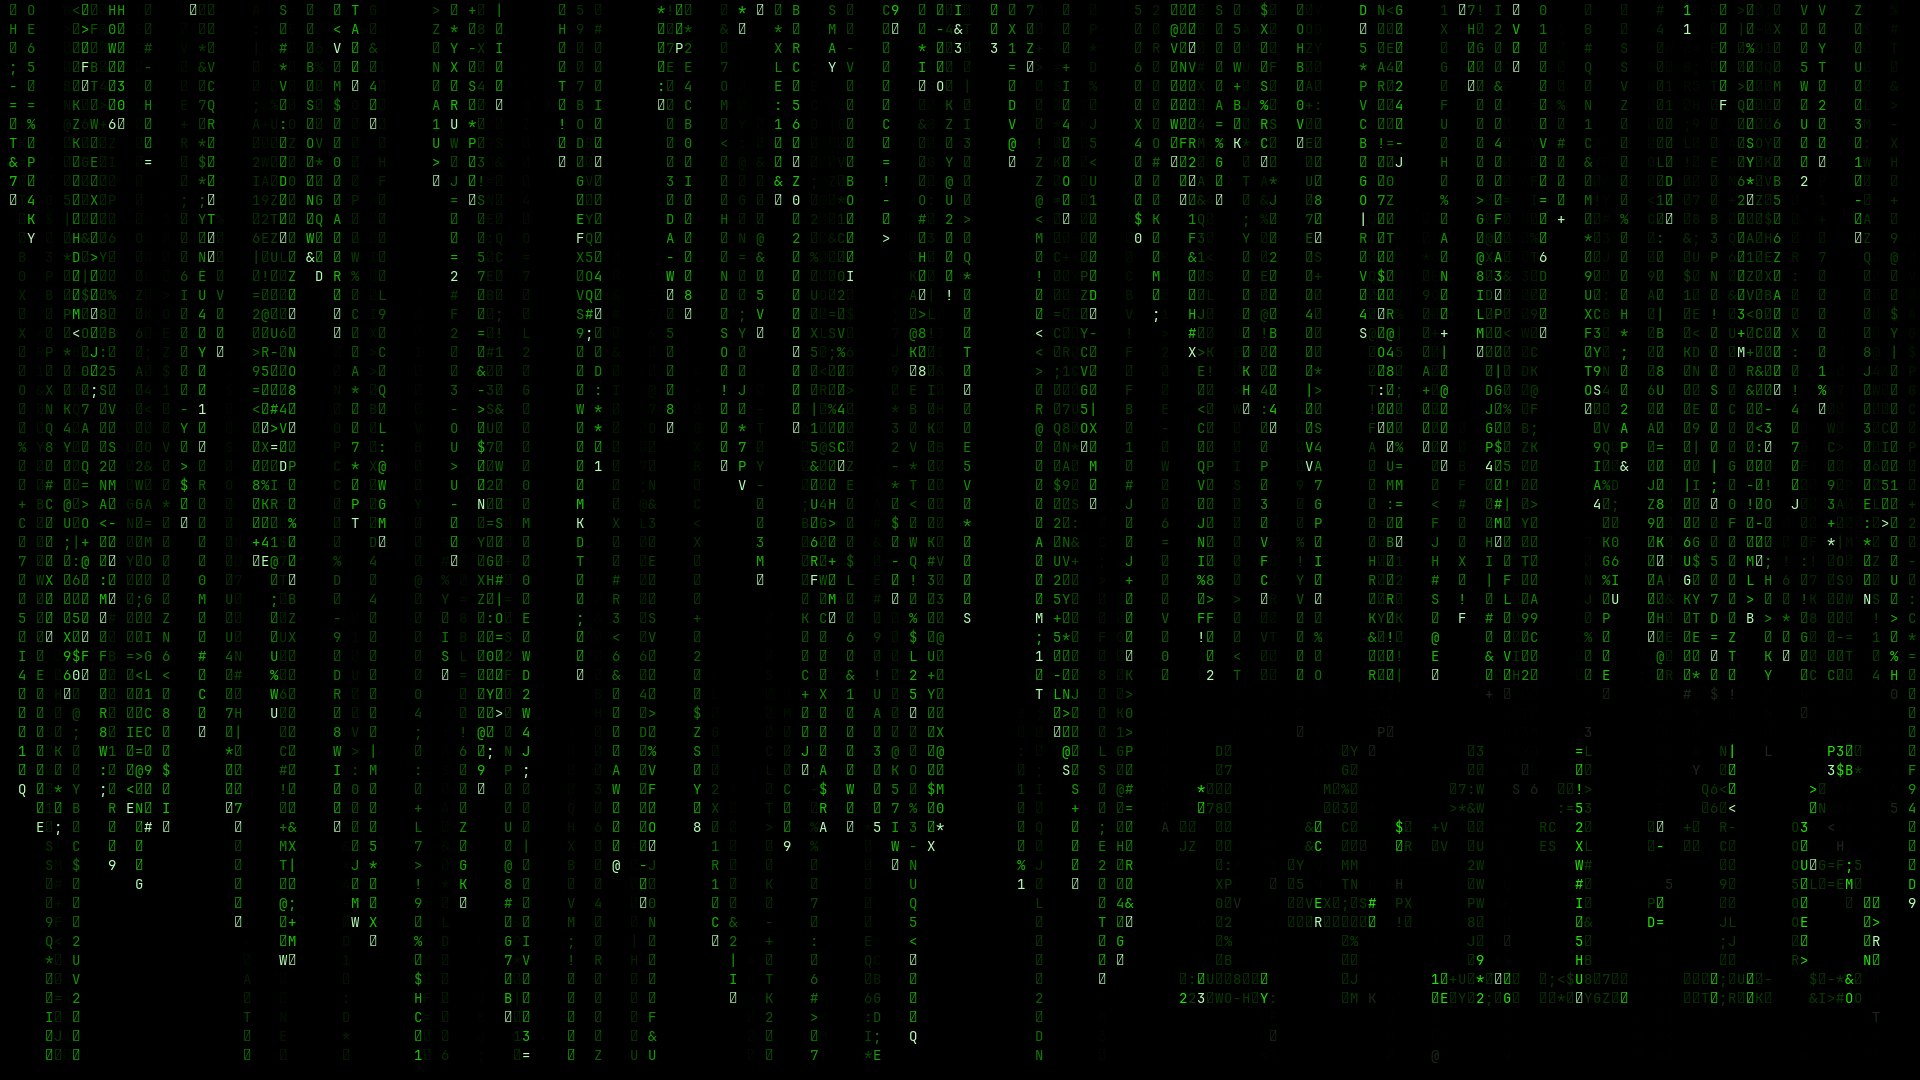
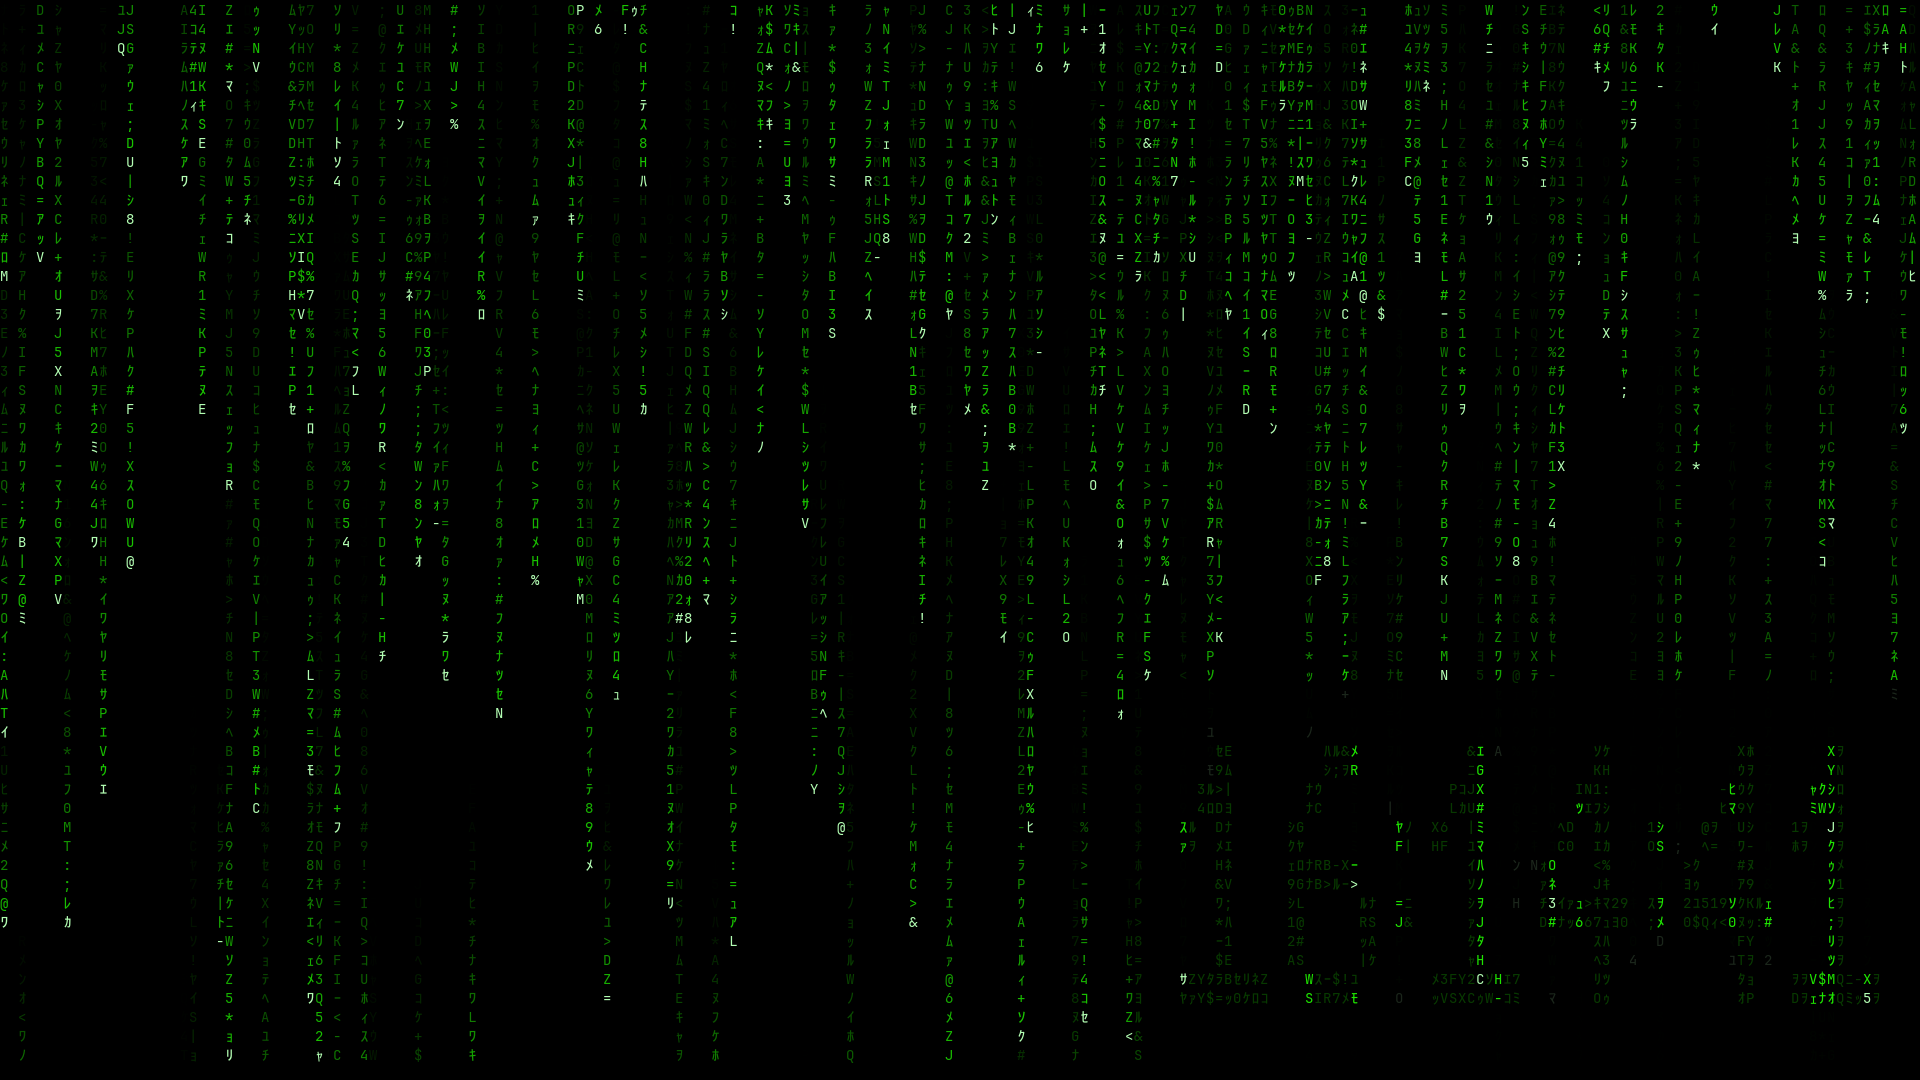
Fix katakana rendering with fallback font
JetBrains Mono lacks half-width katakana glyphs (U+FF66–U+FF9D), so they
rendered as blank. Use font.find_glyph() to detect missing glyphs and fall
back to Droid Sans Fallback (pre-installed on Pi OS) for those characters.

diff --git a/src/renderer.rs b/src/renderer.rs
@@ -15,17 +15,24 @@ pub struct GlyphAtlas {
 impl GlyphAtlas {
     pub fn new(
         font: &Font,
+        fallback_font: Option<&Font>,
         chars: &[char],
         texture_creator: &TextureCreator<WindowContext>,
     ) -> Self {
         let glyphs = chars
             .iter()
             .map(|&ch| {
-                let surface = font
+                // Use fallback font if primary font doesn't have this glyph
+                let use_font = if font.find_glyph(ch).is_none() {
+                    fallback_font.unwrap_or(font)
+                } else {
+                    font
+                };
+                let surface = use_font
                     .render_char(ch)
                     .blended(Color::WHITE)
                     .unwrap_or_else(|_| {
-                        // Fallback: render '?' if a character fails
+                        // Last resort: render '?' from primary font
                         font.render_char('?').blended(Color::WHITE).unwrap()
                     });
                 let w = surface.width();

diff --git a/src/main.rs b/src/main.rs
@@ -32,10 +32,13 @@ fn main() {
 
     let (screen_w, screen_h) = canvas.output_size().unwrap();
 
-    // Load font
+    // Load fonts (primary + fallback for CJK/katakana)
     let font = ttf_context
         .load_font(config::FONT_PATH, config::FONT_SIZE)
         .expect("Failed to load font");
+    let fallback_font = ttf_context
+        .load_font(config::FALLBACK_FONT_PATH, config::FONT_SIZE)
+        .ok();
 
     // Calculate grid dimensions from font metrics
     let cell_w = font.size_of_char('W').unwrap().0;
@@ -46,7 +49,7 @@ fn main() {
     // Build character set and glyph atlas
     let chars = config::char_set();
     let texture_creator = canvas.texture_creator();
-    let mut atlas = renderer::GlyphAtlas::new(&font, &chars, &texture_creator);
+    let mut atlas = renderer::GlyphAtlas::new(&font, fallback_font.as_ref(), &chars, &texture_creator);
 
     // Initialize rain simulation
     let mut rain_sim = rain::Rain::new(grid_cols, grid_rows, chars.len());

diff --git a/src/config.rs b/src/config.rs
@@ -1,5 +1,7 @@
 pub const FONT_PATH: &str =
     "/home/melik/.local/share/fonts/JetBrainsMonoNerdFontMono-Regular.ttf";
+pub const FALLBACK_FONT_PATH: &str =
+    "/usr/share/fonts/truetype/droid/DroidSansFallbackFull.ttf";
 pub const FONT_SIZE: u16 = 14;
 
 // Target frame rate

diff --git a/README.md b/README.md
@@ -29,6 +29,12 @@ A monospace font is required. The default config expects JetBrains Mono Nerd Fon
 ~/.local/share/fonts/JetBrainsMonoNerdFontMono-Regular.ttf
 ```
 
+Katakana characters are rendered using Droid Sans Fallback as a fallback font (pre-installed on Raspberry Pi OS):
+
+```
+/usr/share/fonts/truetype/droid/DroidSansFallbackFull.ttf
+```
+
 ## Build
 
 ```bash
